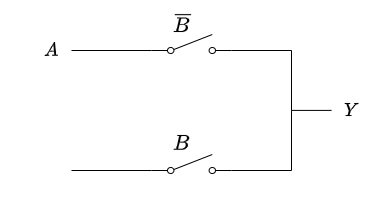
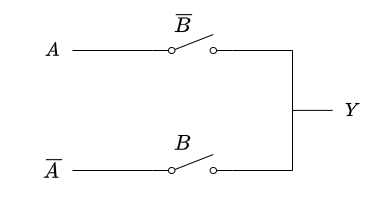
Corretti ulteriori typo e due immagini

diff --git a/Logica Sequenziale.md b/Logica Sequenziale.md
@@ -36,7 +36,7 @@ Per modellare il concetto di _Stato_ definiamo:
 - **Memoria**: capacità di un sistema di conservare traccia della _storia passata_ degli ingressi. Distinguiamo due tipi di memoria:
   - _Memoria Volatile_: sussiste fintanto che alimentata
   - _Memoria Non Volatile_: si preserva a prescindere dall'alimentazione
-- **Variabili di Stato**: rappresentazione matematica e fisica dell'informazione memoriazzata
+- **Variabili di Stato**: rappresentazione matematica e fisica dell'informazione memorizzata
 
 In elettronica possiamo implementare la memorizzazione con due approcci:
 - **Memorizzazione Statica**: sfrutta circuiti _**bistabili**_, in grado di immagazzinare un bit di informazione
@@ -353,11 +353,11 @@ Le loro caratteristiche principali sono:
 - Basso consumo energetico
 - Tempi di Accesso nell'ordine dei nanosecondi
 
-Le `RAM` (_Random Access MEmori_) permettono di accedere a qualsiasi cella in tempo costantem indipendentemente dalla sua posizione fisica.
+Le `RAM` (_Random Access Memory_) permettono di accedere a qualsiasi cella in tempo costantem indipendentemente dalla sua posizione fisica.
 
-Le ram si dividono in _Static-RAM_, o `SRAM`, e _Digital-RAM_ o `DRAM`.
+Le RAM si dividono in _Static-RAM_ (`SRAM`) e _Digital-RAM_ (`DRAM`).
 
-Le differenze sono suelle caratteristiche di dimensioni, densità e tempi di accesso:
+Le differenze tra queste due tipologie sono suelle caratteristiche di dimensioni, densità e tempi di accesso:
 <div class="flexbox" markdown="1">
 
 |  Tipo  |     Densità     |  Area per `1GB`  | Appilcazione Tipica | Velocità  |   Costo    |
@@ -428,7 +428,7 @@ Se invece $Q = 0$ la situazione è simmetrica:
 
 La scarica/carica della $BL$ è molto lenta, dato che i transistori sono molto piccoli e hanno poca capacità di portare grandi correnti. D'altro canto invece $C_B$ è relativamente grande, dato che la $BL$ è tipicamente lunga.
 
-Occorre quindi avere un circuito che interviene per **amplificare velocemente il piccolo sbilanciamento di tesione** che la cella provoca tra $BL$ e $\overline{BL}$.
+Occorre quindi avere un circuito che interviene per **amplificare velocemente il piccolo sbilanciamento di tensione** che la cella provoca tra $BL$ e $\overline{BL}$.
 
 Ecco che entra in gioco il _**Sense Amplifier**_:
 
@@ -477,27 +477,27 @@ Per quanto riguarda la lettura saranno necessari più passaggi:
 1. Precarica di $BL$ a $\frac{V_{DD}}{2}$
 2. Attivazione di $WL$
 
-In questo caso i due condensatori $C_B$ e $C_S$ condivideranno la carica dopo un trasitorio (dovuto a $R_{ON} \ne 0$ del trasnsitore). Alla fine del transitorio le tensioni $V_{BL}$ e $V_{CS}$ avranno lo stesso valore.
+In questo caso i due condensatori $C_B$ e $C_S$ condivideranno la carica dopo un trasitorio (dovuto a $R_{ON} \ne 0$ del transistore), ottenendo $V_{BL} = V_{C_S}$.
 
 La carica invece si conserva:
 $$
 \begin{align*}
-	C_S &\cdot V_S + C_B \cdot \frac{V_{DD}}{2} = (C_S + C_B) \cdot V_{BL} \\
-	V_{BL} &= \frac{C_S}{C_S + C_B}V_{CS} + \frac{C_B}{C_S + C_B} \cdot \frac{V_{DD}}{2} \\
-	V_{BL} &= \frac{C_S}{C_S + C_B}V_{CS} + (1 - \frac{C_S}{C_S + C_B}) \cdot \frac{V_{DD}}{2} \\
-	V_{BL} &= \frac{V_{DD}}{2} + \frac{C_S}{C_S + C_B}(V_{CS} - \frac{V_{DD}}{2}) \\
+	C_S &\cdot V_{C_S} + C_B \cdot \frac{V_{DD}}{2} = (C_S + C_B) \cdot V_{BL} \\
+	V_{BL} &= \frac{C_S}{C_S + C_B}V_{C_S} + \frac{C_B}{C_S + C_B} \cdot \frac{V_{DD}}{2} \\
+	V_{BL} &= \frac{C_S}{C_S + C_B}V_{C_S} + (1 - \frac{C_S}{C_S + C_B}) \cdot \frac{V_{DD}}{2} \\
+	V_{BL} &= \frac{V_{DD}}{2} + \frac{C_S}{C_S + C_B}(V_{C_S} - \frac{V_{DD}}{2}) \\
 	V_{BL} &= \frac{V_{DD}}{2} + \Delta V
 \end{align*}
 $$
 
-Se $V_{CS} = V_{DD} - V_T$:
+Se $V_{C_S} = V_{DD} - V_T$:
 $$
 \begin{CD}
 	{\Delta V > 0} @>>> {V_{BL} > \frac{V_{DD}}{2}}
 \end{CD}
 $$
 
-Se invece avessimo $V_{CS} = 0$:
+Se invece avessimo $V_{C_S} = 0$:
 $$
 \begin{CD}
 	{\Delta V < 0} @>>> {V_{BL} < \frac{V_{DD}}{2}}
@@ -637,11 +637,11 @@ Questo tipo di ROM ha però un **limite di cicli di scrittura**, che si aggira t
 
 Per rimuovere gli eletroni dal gate flottante viene somministrata **energia tramite radiazione UV**.
 
-I fotoni, che hanno energia $E = h\nu$, dove $h$ è la _Costante di Plank_, $\nu$ la frequenza dei fotoni (legata alla lunghezza d'onda nell'uguaglianza $c = \lambda \nu$), portano gli elettroni nella **banda di conduzione dell'ossido**, permettendo loro di _evadere dal gate_.
+I fotoni, che hanno energia $E = h\nu$, dove $h$ è la _Costante di Plank_ e $\nu$ è la frequenza dei fotoni (legata alla lunghezza d'onda nell'uguaglianza $c = \lambda \nu$), portano gli elettroni nella **banda di conduzione dell'ossido**, permettendo loro di _evadere dal gate_.
 
 Il chip è indatti protetto da una finestra in **quarzo trasparente** che, a differenza del vetro comune, permette il passaggio dei raggi UV.
 
-Per generare i raggi UV si utilizzano lampade a _vapori di mercurio_ che generano raggi a $\lambda \approx 254$ $nm$ e energia $E = hf \approx 4.9 eV$, sufficienti a superare la barriera energetica del $SiO_2$.
+Per generare i raggi UV si utilizzano lampade a _vapori di mercurio_ che generano raggi a $\lambda \approx 254$ $nm$ e energia $E = hf \approx 4.9\;eV$, sufficienti a superare la barriera energetica del $SiO_2$.
 
 La cancellazione è un **processo _lento_** e _**globale**_. Dopo circa 20-30 minuti di esposizione viene resettato l'intero chip.
 

diff --git a/Regolatori di Tensione.md b/Regolatori di Tensione.md
@@ -10,7 +10,7 @@ title: Regolatori di Tensione
 	- [2.2. Circuito Integrato](#22-circuito-integrato)
 	- [2.3. Regolatore di Corrente](#23-regolatore-di-corrente)
 	- [2.4. Considerazioni Energetiche](#24-considerazioni-energetiche)
-- [3. Regolatori Switching/a Commutazione](#3-regolatori-switchinga-commutazione)
+- [3. Regolatori a Commutazione (Switching)](#3-regolatori-a-commutazione-switching)
 	- [3.1. Regolatore di Forward](#31-regolatore-di-forward)
 	- [3.2. Regolatore Flyback](#32-regolatore-flyback)
 - [4. Passaggio Tensione Alternata-Costante](#4-passaggio-tensione-alternata-costante)
@@ -247,13 +247,11 @@ $$
 
 ## 2.4. Considerazioni Energetiche
 
-Il nostro elemento di passo, che sia `BJT` o `MKSFET`, _**consuma molta energia**_. Questo accade perché tutta la tensione di _dropout_, viene assorbita e necessita di essere "gestita", che sia attraverso raffreddamenti o altro.
+Il nostro elemento di passo, che sia `BJT` o `MOSFET`, _**consuma molta energia**_. Questo accade perché tutta la tensione di _dropout_, viene assorbita e necessita di essere "gestita", che sia attraverso raffreddamenti o altro.
 
 Inoltre per riuscire a fornire alti voltaggi/amperaggi le tensioni in ingresso che dobbiamo dare all'amplificatore operazionale, affinché agisca di conseguenza sulla base, sono a loro volta alte.
 
-
-
-# 3. Regolatori Switching/a Commutazione
+# 3. Regolatori a Commutazione (Switching)
 
 Sono dei regolatori che dal punto di vista funzionale sono più complessi, ma ci permettono di avere alte tensioni con sprechi di energia minimi.
 
@@ -304,10 +302,9 @@ $$
 \overline{V}_u = E \cdot D
 $$
 
-Per riuscire a elaborare il valor medio della nostra funzione possiamo porre un **filtro passa-basso** che vada a ignorare le armoniche di frequenza superiore del segnale (Trasformate di Fourier).
+Per riuscire a elaborare il valor medio della nostra funzione possiamo introdurre un **filtro passa-basso** che vada a rimuovere le armoniche di frequenza superiore del segnale (possibile vederlo usando le _Trasformate di Fourier_).
 
-
-Utilizziamo un **Filtro Passa Basso Del Second'ordine**, con la frequenza di taglio
+Utilizziamo quindi un **Filtro Passa Basso Del Second'ordine**, che ha frequenza di taglio:
 $$
 \omega = \frac{1}{\sqrt{LC}}
 $$
@@ -418,9 +415,9 @@ $$
 
 Se recuperiamo quindi l'espressione analitica della $V_L$:
 $$
-\begin{CD}	
+\begin{CD}
 	{\int_0^{T_S}{V_L(\tau)\;d\tau} = (E-V_o)T_{ON} - V_oT_{OFF} = 0 }\\
-	@VVV \\ 
+	@VVV \\
 	\begin{matrix}
 		ET_{ON} - V_oT_{ON} - V_oT_S + V_oT_{ON} = 0 \\[1em]
 		V_o = \frac{T_{ON}}{T_S} \cdot E = D \cdot E
@@ -559,7 +556,7 @@ Quando qualcuno va a toccare il punto intermedio, formerà un circuito chiuso, i
 </div>
 <div class="">
 
-Se introduciamo invece un trasformatore, nella maglia del carico _**la tensione dell'induttore non è riferita a terra**_. 
+Se introduciamo invece un trasformatore, nella maglia del carico _**la tensione dell'induttore non è riferita a terra**_.
 
 Ciò significa che se qualcuno tocca _un_ punto del circuito, non passerà alcuna corrente.
 
@@ -576,13 +573,13 @@ Dobbiamo quindi aggiungere il circuito isolante all'interno del nostro schema.
 
 Se lo mettessimo a monte del circuito, prima del _ponte di graetz_:
 - Potremmo abbassare immediatamente la tensione attraverso il rapporto spire
-- Avremmo necessita che il trasformatore _**funzioni bene a $50$ $Hz$**_. I trasformatori che necessiteremmo hanno l'inconveniente di pesare nell'ordine dei _**diversi kilogrammi**_
+- Avremmo necessità che il trasformatore _**funzioni bene a $50$ $Hz$**_. Questo tipo di  trasformatori hanno l'inconveniente di pesare nell'ordine dei _**diversi kilogrammi**_
 
 Questo secondo punto ci spinge a spsotare il trasformatore in un altro punto della nostra catena, in quanto esistono trasformatori che operano nelle centinaia di $kHz$ della grandezza di pochi centimetri.
 
 Il problema è che per come sono fatti i vari blocchi, non possiamo inserirlo in nessun'altro punto del circuito, in quanto dopo il ponte la **tensione è costante**.
 
-Possiamo però _**introdurre un regolatore a commutazione**_ che rende la tensione costante nuovamente alternata (_onda quadra_), permettendoci di trasformarla 
+Possiamo però _**introdurre un regolatore a commutazione**_ che rende la tensione costante nuovamente alternata (_onda quadra_), permettendoci di trasformarla
 
 ## 4.1. Forward con Trasformatore
 

diff --git a/Circuiti Digitali.md b/Circuiti Digitali.md
@@ -521,8 +521,8 @@ Inoltre, quando li analizzeremo, vedremo le soluzioni:
 <div class="">
 
 Dal punto di vista elettrico, possiamo pensare ad una porta inverter come sulla destra, dove la tensione in entrata pilota un interruttore:
-1. $V_{IN} = 0$ $V$ $\to$ **Interruttore Aperto** 
-1. $V_{IN} = V_{DD}$ $V$ $\to$ **Interruttore Chiuso** 
+1. $V_{IN} = 0 \to$ **Interruttore Aperto** 
+1. $V_{IN} = V_{DD} \to$ **Interruttore Chiuso** 
 
 
 Quando l'interruttore è aperto, nel circuito superiore non passa corrente, perciò $V_{o} = V_{DD}$, mentre quando è aperto è connesso a _ground_, quindi $V_{o} = 0$
@@ -856,7 +856,7 @@ Avendo messo serie un altro _inverter_, si presentano quindi altre due capacità
 </div>
 
 
-Poiché tutte queste capacità _**condividono il nodo**_ $D$, possiamo cercare un modo per trovare una _capacità equivalente_. È però importante ricordare che il circuito non va studiato staticamente, ma **per le variazioni**. Infatti, sia _groud_ chee $V_{CC}$, per quanto siano un valore numericamente fisso, durante le commutazioni possono essere considerati _**come se fossero lo stesso nodo**_, data la variazione simmetrica di condizioni all'interno dei transistori.
+Poiché tutte queste capacità _**condividono il nodo**_ $D$, possiamo cercare un modo per trovare una _capacità equivalente_. È però importante ricordare che il circuito non va studiato staticamente, ma **per le variazioni**. Infatti, sia _ground_ chee $V_{CC}$, per quanto siano un valore numericamente fisso, durante le commutazioni possono essere considerati _**come se fossero lo stesso nodo**_, data la variazione simmetrica di condizioni all'interno dei transistori.
 
 Possiamo quindi considerare $C_W$ i due $C_{DB}, C_{GP}$ e $C_{GN}$ come se fossero tutti in _parallelo_.
 
@@ -1792,7 +1792,7 @@ $$
 
 Anche in questo caso abbiamo che l'`NMOS` lavora **sempre in saturazione**.
 
-La scarica quindi procederà a diminuire $V_S$, che farà diminuire $V_{DS}$ finché il transistore continua a condurre corrente. Questo avviene fino a quando $i_{DS} = 0$, che accade quando $V_{DS} = 0$ ovvero $V_S = 0$.
+La scarica quindi procederà a diminuire $V_S$, che farà diminuire $V_{DS}$ finché il transistore continua a condurre corrente. Questo avviene fino a quando $i_{DS} = 0$, che accade quando $V_{DS} = 0$ ovvero $V_D = 0$.
 
 Ciò significa che il nostro condensatore **_si scarica completamente_**.
 

diff --git a/Convertitori.md b/Convertitori.md
@@ -78,7 +78,7 @@ Il `DAC` con **Resistori a Pesi Binari** è composto da due parti principali:
 
 La corrente in ingresso all'amplificatore vale:
 $$
-	i_0 = V_{REF} \cdot R_{eq}
+	i_0 = \frac{V_{REF}}{R_{eq}}
 $$
 
 Dove $R_{eq}$ rappresenta la serie di tutte le resistenze collegate a deviatori settati ad `1`, che collegano la tensione $V_{REF}$ al nodo con **tensione virtuale nulla**.
@@ -100,7 +100,7 @@ $$
 }
 $$
 
-Se utilizzassimo dei resistori _precisi all'_$1\%$, otterremo che con $N$ bit, supponendo di avere $R_{min} = 1$ $k\Omega$, e quindi $\Delta R = 10$ $k\Omega$:
+Se utilizzassimo dei resistori _precisi all'_$1\%$, otterremo che con $N$ bit, supponendo di avere $R_{min} = 1$ $k\Omega$, e quindi $\Delta R_{min} = 10$ $\Omega$:
 $$
 \begin{cases}
 	N = 10 & R_{max} = 1024\;k\Omega & \Delta R = 10.24\;k\Omega \\
@@ -146,9 +146,9 @@ $$
 </div>
 </div>
 
-Ad ogni sezione quindi la corrente si divide in **due parti nominalmente uguali**.implica che il contributo di corrente di ogni deviatore è esattamente:
+Ad ogni sezione quindi la corrente si divide in **due parti nominalmente uguali**. Ciò implica che il contributo di corrente di ogni deviatore sia esattamente:
 $$
-	I_{i} = \frac{I_R}{2^N - i}
+	I_{i} = \frac{I_R}{2^{N-i}}
 $$
 
 Possiamo quindi esprimere la corrente in ingresso:
@@ -332,7 +332,7 @@ $$
 
 Questo circuito quindi _**non dipende**_ dalla resistenza e dal condensatore che utilizziamo.
 
-Il circuito però **è molto lento**, infatti se $\vert V_{IN} \vert = V_{REF}$ sovremo attendere ben $2^N$ cicli di _clock_ prima di poter ottenere la conversione.
+Il circuito però **è molto lento**, infatti se $\vert V_{IN} \vert = 0$ dovremo attendere comunque $2^N$ cicli di clock. Se $\vert V_{IN} \vert = V_{REF}$ dovremo addirittura attendere ben $2^{N+1}$ cicli di _clock_ prima di poter ottenere la conversione.
 
 ### 2.2.4. Convertitore ad Approssimazioni Successive - `SAR`
 

diff --git a/Circuiti Amplificatori.md b/Circuiti Amplificatori.md
@@ -969,7 +969,7 @@ Definiamo _**Buffer**_:
 > $$
 > 	\begin{cases}
 > 		R_{of} = \frac{R_{OPA}}{1 - \beta A} = 0 \\
-> 		R_{in} = \frac{V_s}{i_s} = 0 \\
+> 		R_{in} = \frac{V_s}{i_s} = +\infty \\
 > 		R_2 = 0 \\
 > 		A = 1
 > 	\end{cases}
